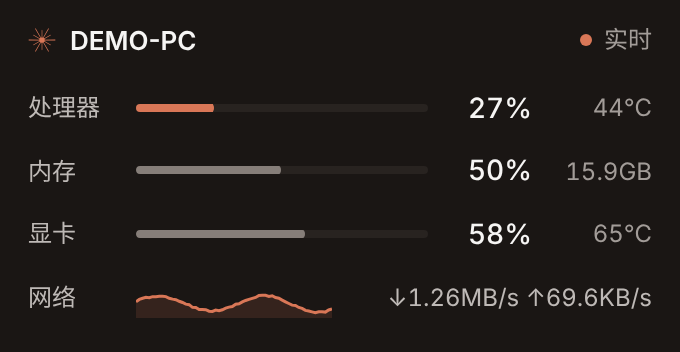
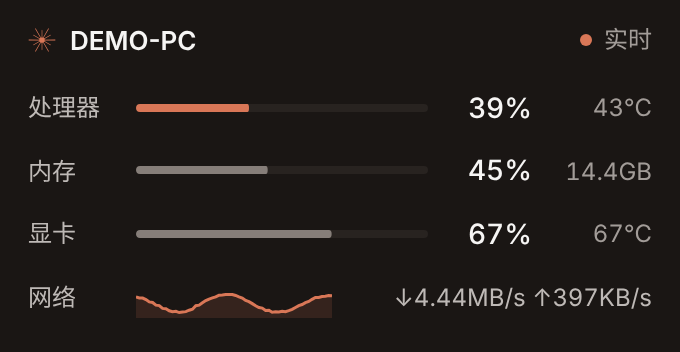
改为非商业许可；Release 同时提供 zip 和单文件 exe
- LICENSE 改为“PerfSkin 非商业使用许可”：免费、源码公开、禁止商用；README、CHANGELOG 同步
- 设置页新增“关于与声明”
- CI：推送 v* 标签时打包文件夹版 zip + 单文件 exe，Release 说明附 SHA-256
- 演示模式：虚构进程列表、预填 10 分钟历史，截图更像真实使用
- 更新 docs 截图；修正结束进程确认文案多余空格

Claude-Session: https://claude.ai/code/session_01CnPXmrnVx1EFFXcQaWk9hS

diff --git a/web/index.html b/web/index.html
@@ -181,7 +181,22 @@
       <label class="switch"><span>开启提醒<em class="faint">持续超过阈值时弹 Windows 通知，同一项冷却期内只提醒一次</em></span><input type="checkbox" id="st-alerts"></label>
       <div class="grid2" id="st-limits"></div>
     </div>
-    <p class="faint small" id="st-about"></p>
+    <h3>关于与声明</h3>
+    <div class="about" id="about">
+      <p><b>免费、源码公开、禁止商用。</b></p>
+      <ul>
+        <li>可以免费使用、学习、修改，做皮肤、分享皮肤。</li>
+        <li>可以非商业地转发原版或修改版，但要保留许可声明并注明来源。</li>
+        <li><b>禁止任何商业用途</b>：出售、付费下载、捆绑收费、付费代装、集成进收费产品。看到有人卖，那一定不是作者发的。</li>
+        <li>按现状提供，不附带任何担保。“结束进程”前请先保存好手头的工作。</li>
+      </ul>
+      <dl>
+        <dt>作者</dt><dd>FrankHuahua</dd>
+        <dt>项目</dt><dd><a href="https://github.com/FrankHuahua/PerfSkin" target="_blank" rel="noopener">github.com/FrankHuahua/PerfSkin</a></dd>
+        <dt>许可</dt><dd>PerfSkin 非商业使用许可（全文见项目仓库的 LICENSE）</dd>
+      </dl>
+      <p class="faint small" id="st-about"></p>
+    </div>
   </div>
 </dialog>
 

diff --git a/web/app.css b/web/app.css
@@ -219,3 +219,14 @@ input[type="range"]{accent-color:var(--accent);width:100%}
   .ptable .cell .meter{display:none}
   .live span{display:none}
 }
+
+/* 关于与声明 */
+.about{font-size:13px;line-height:1.65;color:var(--muted)}
+.about b{color:var(--ink);font-weight:600}
+.about ul{margin:8px 0 14px;padding-left:18px}
+.about li{margin:2px 0}
+.about dl{display:grid;grid-template-columns:auto 1fr;gap:4px 14px;margin:0 0 12px}
+.about dt{color:var(--faint)}
+.about dd{margin:0;color:var(--ink)}
+.about a{color:var(--accent);text-decoration:none}
+.about a:hover{text-decoration:underline}

diff --git a/web/app.js b/web/app.js
@@ -253,7 +253,7 @@
     pending = b.dataset.name;
     $("#cf-name").textContent = short(pending);
     const n = +b.dataset.count;
-    $("#cf-body").textContent = `将结束 ${n > 1 ? "全部 " + n + " 个" : "这个"}「${pending}」进程，里面没保存的内容会丢失。系统关键进程不会被结束。`;
+    $("#cf-body").textContent = `将结束${n > 1 ? "全部 " + n + " 个" : "这个"}「${pending}」进程，里面没保存的内容会丢失。系统关键进程不会被结束。`;
     cf.showModal();
   });
   $("#cf-cancel").addEventListener("click", () => cf.close());

diff --git a/perfmon/collector.py b/perfmon/collector.py
@@ -387,22 +387,68 @@ class Collector(threading.Thread):
 
 # ---------------------------------------------------------------- 演示数据（--demo）：让界面在任何电脑上都有起伏
 class DemoCollector(Collector):
-    """演示模式：一台虚构的游戏电脑，方便截图和调界面（真实的进程、网卡数据照常采集）。"""
+    """演示模式：一台虚构的游戏电脑，方便截图和调界面（真实的网卡数据照常采集，进程是虚构的）。"""
+
+    # (名字, 数量, 基础 CPU%, 内存 MB)
+    FAKE_PROCS = [
+        ("Cyberpunk2077.exe", 1, 18.0, 7350), ("chrome.exe", 32, 3.4, 3480), ("Code.exe", 12, 1.6, 1210),
+        ("steamwebhelper.exe", 6, 0.9, 640), ("Discord.exe", 6, 0.7, 520), ("msedgewebview2.exe", 8, 0.4, 410),
+        ("explorer.exe", 1, 0.3, 180), ("WeChat.exe", 3, 0.3, 350), ("cloudmusic.exe", 4, 0.5, 290),
+        ("dwm.exe", 1, 1.1, 120), ("NVIDIA Overlay.exe", 2, 0.2, 140), ("OneDrive.exe", 1, 0.1, 95),
+        ("PerfSkin.exe", 1, 0.2, 28), ("System", 1, 0.4, 2), ("csrss.exe", 2, 0.1, 6), ("svchost.exe", 78, 0.6, 980),
+    ]
 
     def __init__(self, cfg: dict, demo=True):
         super().__init__(cfg, demo=True)
         self.info.update(host="DEMO-PC", os="Windows 11 24H2", cpu_name="Intel(R) Core(TM) i5-14600KF",
                          cores=14, threads=20, mem_total=32 * 2**30)
+        # 预先填满历史，打开就能看到完整的 10 分钟曲线
+        now = time.time()
+        n = self._hist.maxlen
+        for i in range(n, 0, -1):
+            self._hist.append(self._demo_h(now - i * self.interval))
+
+    @staticmethod
+    def _wave(t):
+        return 32 + 16 * math.sin(t / 70) + 7 * math.sin(t / 13) + 4 * math.sin(t / 2.3)
+
+    def _demo_h(self, t):
+        k = self._rnd
+        cpu = max(2, min(100, self._wave(t) + k.uniform(-4, 4)))
+        mem = 46 + 5 * math.sin(t / 40) + k.uniform(-.3, .3)
+        gpu = max(0.0, min(100.0, 42 + 22 * math.sin(t / 45) + 6 * math.sin(t / 7) + k.uniform(-3, 3)))
+        rx = max(0, 2.4e6 + 2.2e6 * math.sin(t / 5) + k.uniform(0, 4e5))
+        tx = max(0, 3.2e5 + 2.5e5 * math.sin(t / 4 + 1))
+        dr = max(0, 1.8e7 * max(0, math.sin(t / 6)) + k.uniform(0, 2e5))
+        dw = max(0, 6e6 * max(0, math.sin(t / 8 + 2)) + k.uniform(0, 1e5))
+        return {"t": round(t, 2), "cpu": round(cpu, 1), "mem": round(mem, 1), "gpu": round(gpu, 1),
+                "vram": round(100 * (4.2 + 1.5 * math.sin(t / 30)) / 12, 1), "rx": int(rx), "tx": int(tx),
+                "dr": int(dr), "dw": int(dw), "disk": round(min(100, (dr + dw) / 3.5e5), 1)}
+
+    def _processes(self):
+        t = time.time()
+        k = self._rnd
+        cpu_now = max(5.0, self._wave(t))
+        out = []
+        for i, (name, count, c, m) in enumerate(self.FAKE_PROCS):
+            jitter = 1 + 0.35 * math.sin(t / 5 + i) + k.uniform(-.1, .1)
+            cpu = c * jitter * (cpu_now / 30 if i == 0 else 1)
+            out.append({"name": name, "count": count, "cpu": round(max(0.0, min(100.0, cpu)), 1),
+                        "mem": int(m * (1 + .03 * math.sin(t / 20 + i)) * 2**20), "pid": 1000 + i * 4,
+                        "protected": is_protected(name)})
+        return {"cpu": sorted(out, key=lambda g: -g["cpu"])[:15], "mem": sorted(out, key=lambda g: -g["mem"])[:15],
+                "count": 287}
 
     def sample(self):
         snap = super().sample()
         t = time.time()
         k = self._rnd
-        wave = 34 + 22 * math.sin(t / 7) + 10 * math.sin(t / 2.3) + k.uniform(-4, 4)
+        wave = self._wave(t) + k.uniform(-4, 4)
         n = 20
         snap["cpu"]["per_core"] = [round(max(1, min(100, wave + 25 * math.sin(t / 3 + i) + k.uniform(-8, 8))), 1)
                                    for i in range(n)]
         snap["cpu"]["percent"] = sum(snap["cpu"]["per_core"]) / n
+        snap["cpu"]["procs"] = 287
         mp = 46 + 5 * math.sin(t / 40) + k.uniform(-.3, .3)
         tot = 32 * 2**30
         snap["mem"].update(total=tot, percent=round(mp, 1), used=int(tot * mp / 100), available=int(tot * (1 - mp / 100)))

diff --git a/perfmon/gpu.py b/perfmon/gpu.py
@@ -215,8 +215,8 @@ class DemoReader:
         self.rnd = random.Random(3)
 
     def read(self):
-        t = time.time() - self.t0
-        u = max(0.0, min(100.0, 38 + 30 * math.sin(t / 9) + self.rnd.uniform(-6, 6)))
+        t = time.time()   # 用绝对时间，和演示历史曲线（collector.DemoCollector）接得上
+        u = max(0.0, min(100.0, 42 + 22 * math.sin(t / 45) + 6 * math.sin(t / 7) + self.rnd.uniform(-3, 3)))
         return [{"name": "NVIDIA GeForce RTX 4070 (演示)", "util": u,
                  "mem_used": int((4.2 + 1.5 * math.sin(t / 30)) * 2**30), "mem_total": 12 * 2**30,
                  "temp": 52 + u * .22, "power": 40 + u * 1.6, "power_limit": 200.0, "fan": 30 + u * .4,

diff --git a/README.md b/README.md
@@ -50,7 +50,13 @@ PerfSkin 的原则是“监控工具自己不能成为负担”：
 
 ## 安装
 
-**下载即用**：到 [Releases](https://github.com/FrankHuahua/PerfSkin/releases) 下载 `PerfSkin-*-windows-x64.zip`，解压后运行 `PerfSkin.exe`。
+**下载即用**（Windows 10 / 11 64 位，系统自带 Edge 即可，不用装 Python）。到 [Releases](https://github.com/FrankHuahua/PerfSkin/releases) 二选一：
+
+- `PerfSkin-*-windows-x64.zip`（**推荐**）：解压到任意文件夹，运行里面的 `PerfSkin.exe`，启动快；
+- `PerfSkin.exe`：单文件版，**先放进一个单独的文件夹再运行**（配置、日志、你的皮肤都会存在它旁边）。每次启动要先自解压，比 zip 版慢一两秒。
+
+Release 页面写了每个文件的 SHA-256，下载后可以在 PowerShell 里用 `Get-FileHash .\PerfSkin.exe` 核对。
+首次运行如果弹出“Windows 已保护你的电脑”，是因为没有购买代码签名证书，点“更多信息 → 仍要运行”即可。
 
 **从源码运行**（需要 Python 3.9+）：
 
@@ -96,8 +102,15 @@ python -m unittest discover tests    # 测试
 
 ## 许可
 
-代码使用 [MIT](LICENSE) 许可。内置皮肤“暖焰女仆”的立绘版权归作者所有，不随 MIT 授权（只能随 PerfSkin 原样分发）；
-字体 Inter 使用 SIL Open Font License。PerfSkin 是个人项目，与任何公司无关。
+**免费、源码公开、禁止商用。** 使用 [PerfSkin 非商业使用许可](LICENSE)：
+
+- 可以免费使用、学习、修改，可以做皮肤、分享皮肤；
+- 可以非商业地转发原版或修改版，但要保留许可全文并注明来源仓库；
+- **禁止任何商业用途**：出售、付费下载、捆绑收费、付费代装、集成进收费产品或服务。在二手平台、网店看到有人卖它，那一定不是作者发的；
+- 按现状提供，不附带任何担保。“结束进程”等操作由你自己决定，请先保存好手头的工作。
+
+内置皮肤“暖焰女仆”的立绘版权归作者所有，只能随 PerfSkin 原样分发；字体 Inter 使用 SIL Open Font License。
+需要商业授权请联系 wxl995232151@gmail.com。PerfSkin 是个人项目，与任何公司无关。
 
 ---
 
@@ -114,4 +127,7 @@ Drop an image in and the whole UI picks up a matching ground tone and accent col
   when hidden. The top bar shows PerfSkin's own usage.
 - Always-on-top mini window, high-load notifications, autostart, everything stored in the program folder.
 
-Run `install_and_run.bat` (Python 3.9+) or grab the zip from Releases. The UI is in Chinese for now — translations welcome.
+Run `install_and_run.bat` (Python 3.9+) or grab the zip / single exe from Releases. The UI is in Chinese for now — translations welcome.
+
+**License:** free for personal, educational and non-commercial use under the [PerfSkin Non-Commercial License](LICENSE).
+Commercial use (selling, paid bundling, paid installs, integration into paid products) requires written permission.

diff --git a/CHANGELOG.md b/CHANGELOG.md
@@ -20,8 +20,10 @@
 - 窗口用的 Edge 关掉扩展、同步、后台联网等服务；顶栏显示 PerfSkin 自身占用
 
 **其他**
+- 许可改为“PerfSkin 非商业使用许可”：免费、源码公开、禁止商用
+- Releases 同时提供 zip（推荐）和单文件 `PerfSkin.exe`，附 SHA-256 校验值
 - 演示模式改成一台虚构的游戏电脑，方便截图
-- GitHub Actions：Windows（Python 3.9 / 3.13）和 Linux 上跑测试；推送 `v*` 标签自动打包发布
+- GitHub Actions：Windows / Linux × Python 3.9 / 3.13 测试；推送 `v*` 标签自动打包发布
 
 ## 1.0.0 · 2026-10-18 — 初版（未公开）
 
